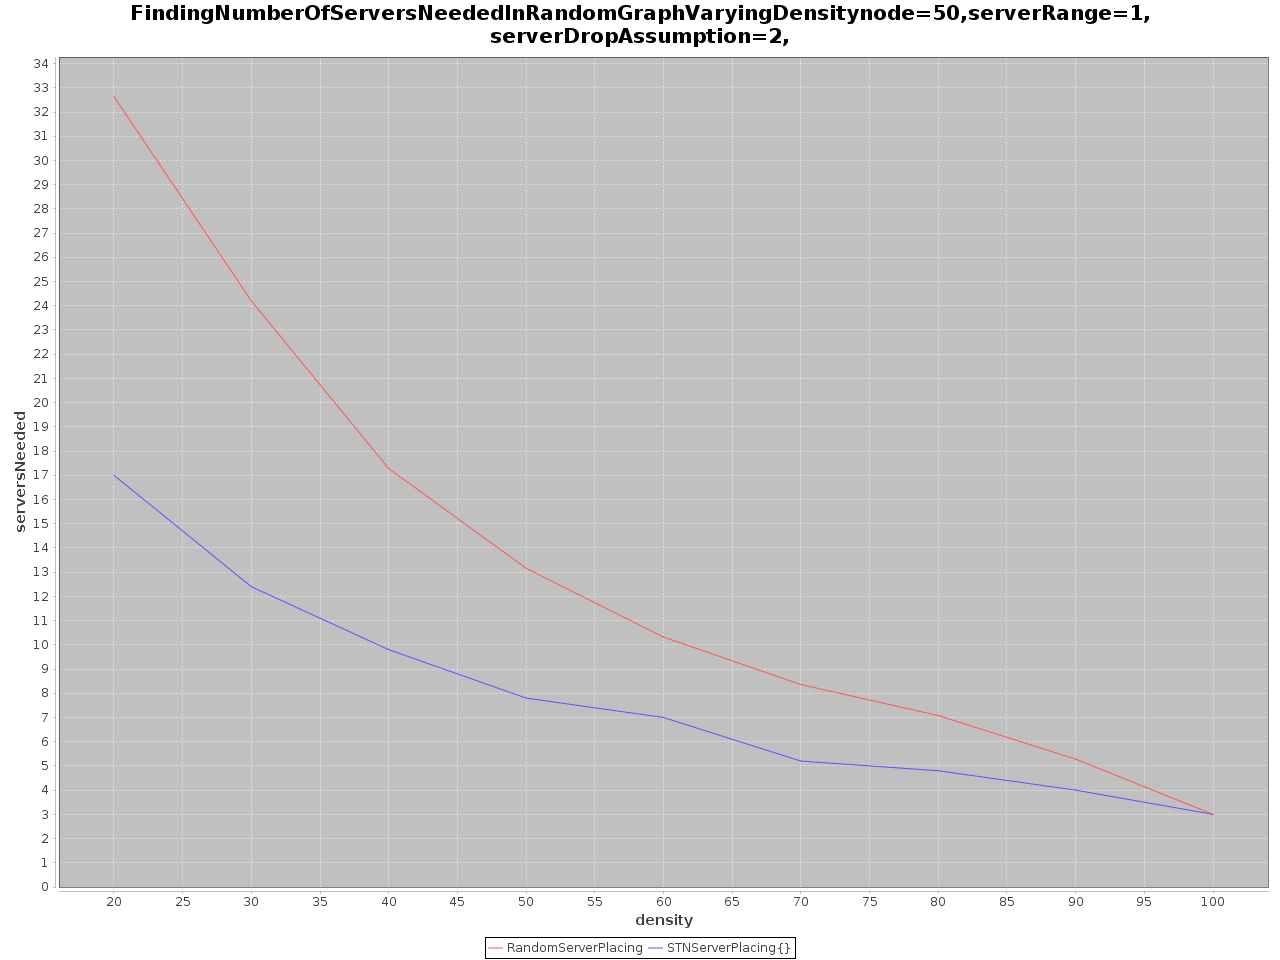
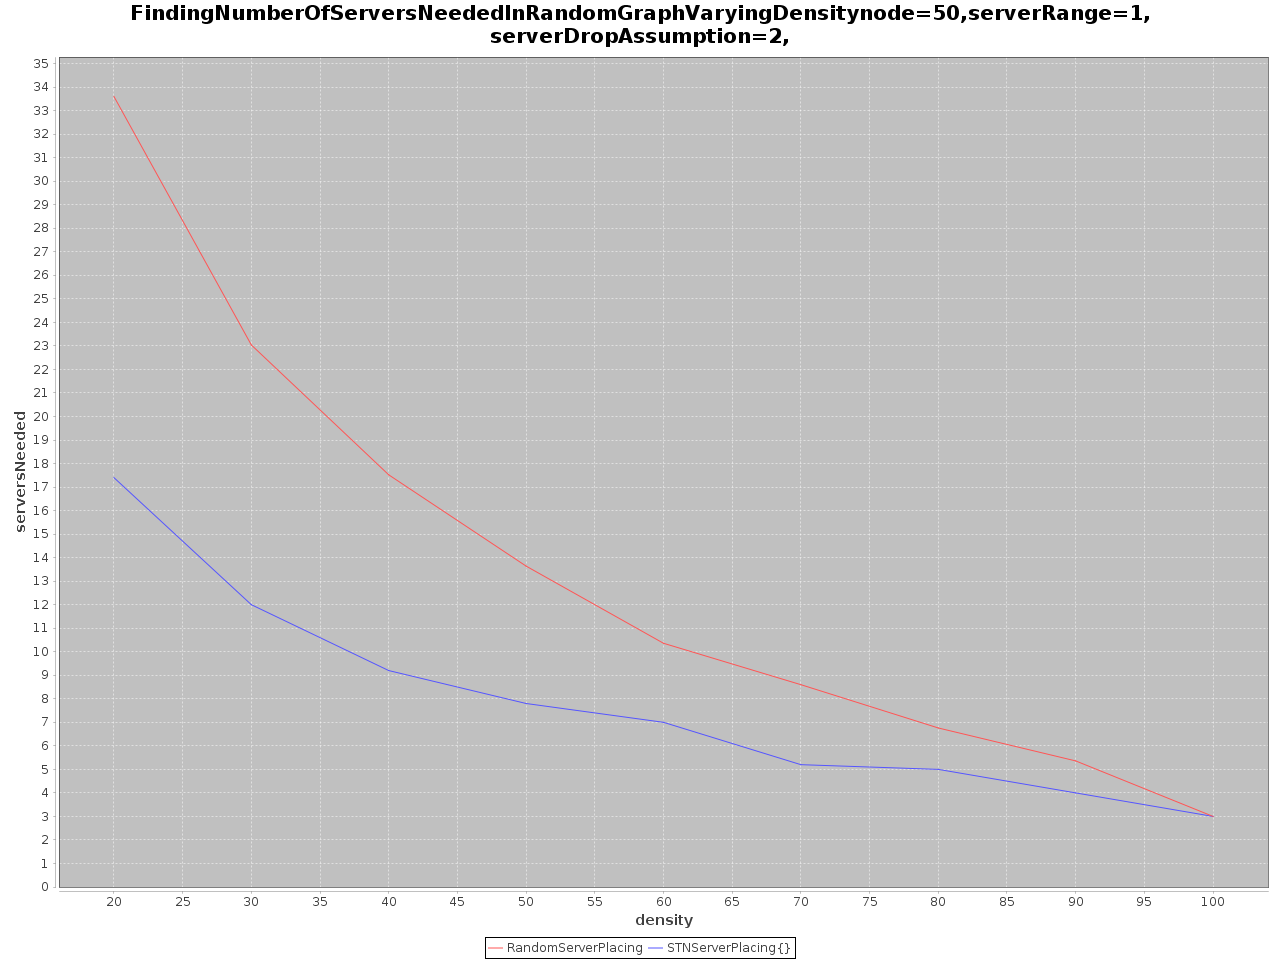
Added some comment in the interface ServerPlacing. Hopefully made it easier to understand.

diff --git a/Undergrad Thesis Code/src/server_placing/ServerPlacing.java b/Undergrad Thesis Code/src/server_placing/ServerPlacing.java
@@ -16,4 +16,6 @@ public interface ServerPlacing
     List<Node> getNodeListForServerPlacing(Graph graph, int serverRange, int minServerCntReqWithinRange);
 
     int getServerCntForGoodConnectivity(Graph graph, int serverRange, int minServerCntReqWithinRange);
+    // this method actually returns the minimum number of servers needed such that each node is covered by
+    // at least minServerCntReqWithinRange+1 servers
 }

diff --git a/Undergrad Thesis Code/src/server_placing/STNServerPlacing.java b/Undergrad Thesis Code/src/server_placing/STNServerPlacing.java
@@ -18,7 +18,8 @@ public class STNServerPlacing implements ServerPlacing {
     }
 
     @Override
-    public List<Node> getNodeListForServerPlacing(Graph graph, int serverRange, int minServerReqWithinRange) {
+    public List<Node> getNodeListForServerPlacing(Graph graph, int serverRange, int minServerReqWithinRange)
+    {
 
         if  ( graph == null )
         {

diff --git a/Undergrad Thesis Code/src/driver/Driver.java b/Undergrad Thesis Code/src/driver/Driver.java
@@ -41,7 +41,7 @@ public class Driver {
 
 
 
-        int serverRange = 1;
+        int serverRange = 2;
         for (int nodeCnt = 50; nodeCnt <= 200; nodeCnt += 25)
         {
             Experiment experiment =
